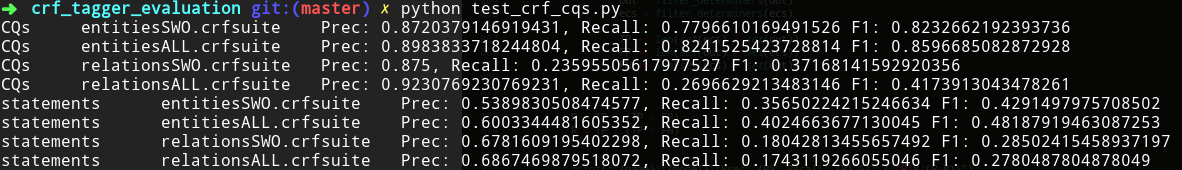
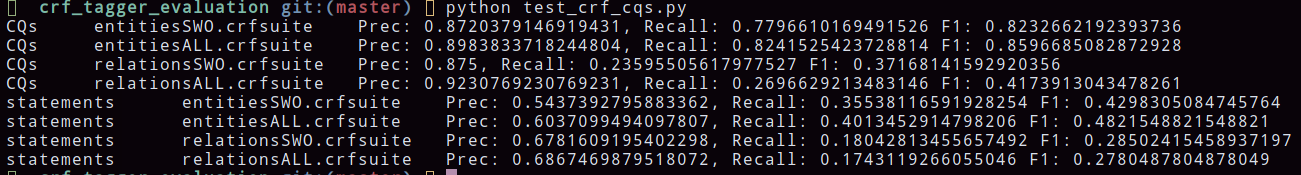
Rejected entities added, reevaluated

diff --git a/crf_tagger_evaluation/test_crf_cqs.py b/crf_tagger_evaluation/test_crf_cqs.py
@@ -848,6 +848,13 @@ def filter_auxilaries(outs):
         result.append(re.sub(r'^([Aa]m|[Aa]re|[Ii]s|[Ww]as|[Ww]ill|[Ww]ould|[Ss]hall|[Ss]hould|[Cc]an|[Mm]ight|[Mm]ay|[Mm]ust|[Cc]ould|[Dd]o|[Dd]oes|[Dd]id)( be| been)? ', '', obj))
     return result
 
+
+NON_ENTITY_THINGS =  ['a kind', 'the kind', 'kind', 'kinds', 'the kinds',
+                      'category', 'a category', 'the category', 'categories', 'the categories',
+                      'type', 'a type', 'the type', 'types', 'the types']
+
+NON_ENTITY_THINGS = set(NON_ENTITY_THINGS)
+
 for reqtype, name in [(cqs, "CQs"), (sents, "statements")]:
     for model in ['entitiesSWO.crfsuite', 'entitiesALL.crfsuite']:
         tagger = CRFTagger(f"models/{model}")
@@ -861,6 +868,7 @@ for reqtype, name in [(cqs, "CQs"), (sents, "statements")]:
         for ontology in reqtype:
             for (cq, ecs, pcs) in reqtype[ontology]:
                 out = tagger.tag(cq)
+                out = set(out) - NON_ENTITY_THINGS
                 out = filter_determiners(out)
                 ecs = filter_determiners(ecs)
 
@@ -891,7 +899,13 @@ for reqtype, name in [(cqs, "CQs"), (sents, "statements")]:
                         'have', 'had', 'can', 'could', 'regarding',
                         'is of', 'are of', 'are in', 'given', 'is there', 'has']
 
+        NON_ENTITY_THINGS =  ['a kind', 'the kind', 'kind', 'kinds', 'the kinds',
+                        'category', 'a category', 'the category', 'categories', 'the categories',
+                        'type', 'a type', 'the type', 'types', 'the types']
+
+
         NON_PREDICATE_THING = set(NON_PREDICATE_THING)
+        NON_ENTITY_THINGS = set(NON_ENTITY_THINGS)
 
 
         for ontology in reqtype:

diff --git a/reqtagger/reqtagger.py b/reqtagger/reqtagger.py
@@ -9,7 +9,9 @@ class ReqTagger:
                 'have', 'had', 'can', 'could', 'regarding',
                 'is of', 'are of', 'are in', 'given', 'is there', 'has']
 
-    NON_ENTITY_THINGS =  []
+    NON_ENTITY_THINGS =  ['a kind', 'the kind', 'kind', 'kinds', 'the kinds',
+                'category', 'a category', 'the category', 'categories', 'the categories',
+                'type', 'a type', 'the type', 'types', 'the types']
 
     RULES_CQ2SPARQLOWL_RELATIONS = [
         ['{0+}PART|VERB', 'VERB'],
